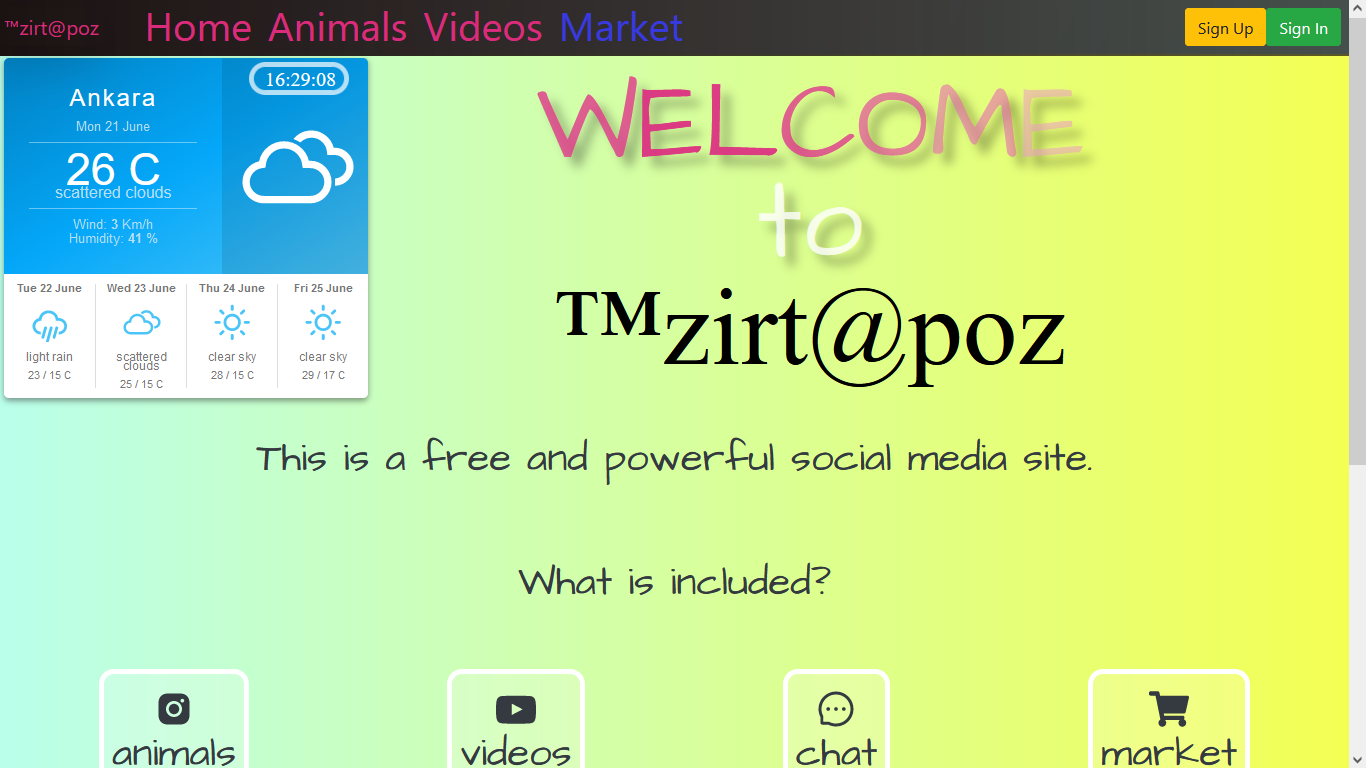
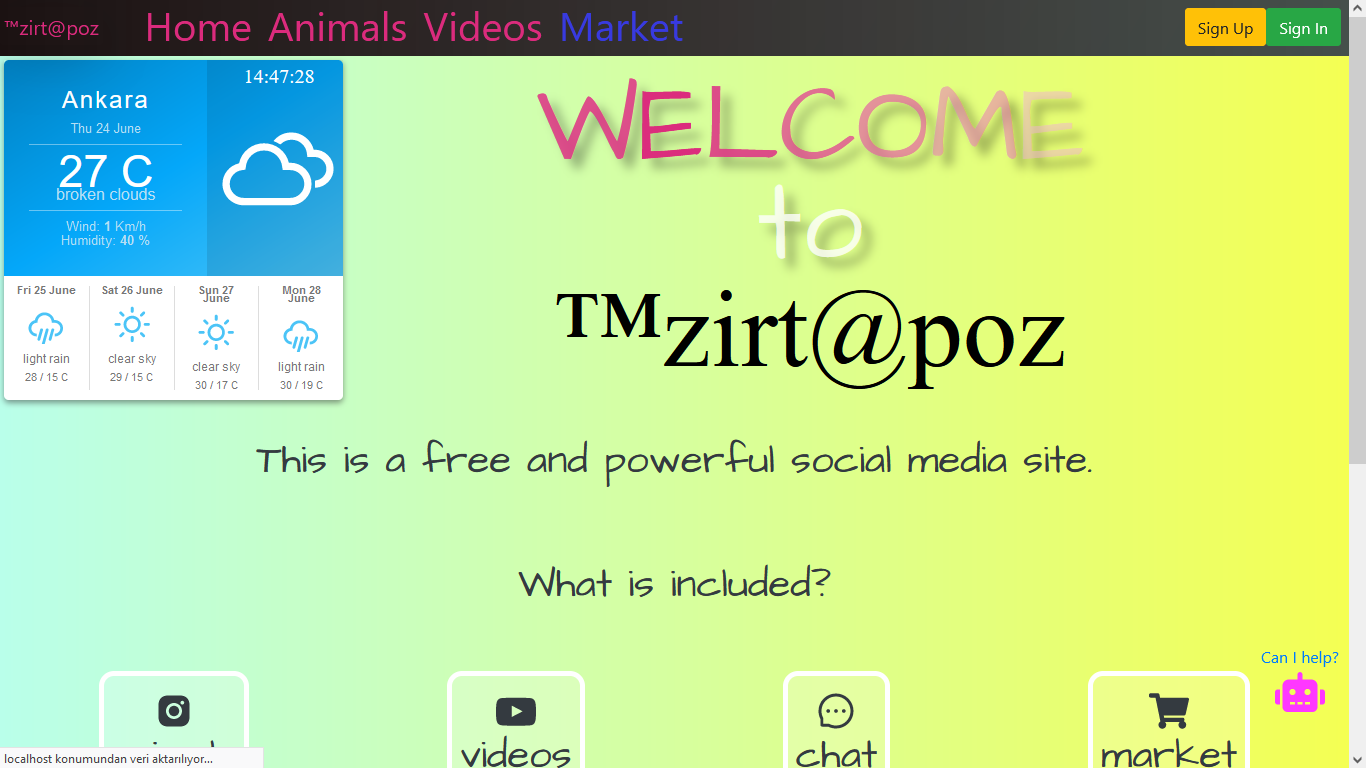
smart ai update

diff --git a/src/information.js b/src/information.js
@@ -8,10 +8,12 @@ import market1 from "./assets/market1.jpg";
 import market2 from "./assets/market2.jpg";
 import lottery1 from "./assets/lottery1.jpg";
 import lottery2 from "./assets/lottery2.jpg";
-import bag1 from "./assets//market/bag1.jpg";
-import addBag1 from "./assets//market/addBag1.jpg";
-import payment1 from "./assets//market/payment1.jpg";
-import oldPurchases1 from "./assets//market/oldPurchases1.jpg";
+import bot1 from "./assets//bot1.png";
+import bot2 from "./assets//bot2.jpg";
+import bag1 from "./assets/market/bag1.jpg";
+import addBag1 from "./assets/market/addBag1.jpg";
+import payment1 from "./assets/market/payment1.jpg";
+import oldPurchases1 from "./assets/market/oldPurchases1.jpg";
 import addProduct1 from "./assets/market/addProduct1.jpg";
 import addProduct2 from "./assets/market/addProduct2.jpg";
 import productPage1 from "./assets/market/productPage1.jpg";
@@ -42,6 +44,20 @@ export const tamzirtapozParagraph1 = `This is a social media web application tha
   People need to be a member to see the contents. This application makes connection to the Node.js server which is served by Heroku. There are 5 main page. Click details button for more information and to see photos`;
 
 export const tamzirtapozContent = [
+  {
+    title: "Smart AI Assistant",
+    paragraph1: "A smart bot tamzirtapoz will always help you about any topic",
+    photos: [bot1, bot2],
+    ulItems: [
+      "Easily send a message",
+      "Learn whatever you want",
+      "Talk like a person",
+      "For now, only English letters are supported",
+      "Get notifications from her",
+    ],
+    paragraph2:
+      "Even if you are not logged in, you can talk with her and get help from home page",
+  },
   {
     title: "Messaging",
     paragraph1:

diff --git a/src/components/Projects.js b/src/components/Projects.js
@@ -6,6 +6,8 @@ import messaging1 from "../assets/messaging1.jpg";
 import sidebar1 from "../assets/market/sidebar1.jpg";
 import addBag1 from "../assets/market/addBag1.jpg";
 import payment2 from "../assets/market/payment2.jpg";
+import bot1 from "../assets/bot1.png";
+
 import generalMain1 from "../assets/market/generalMain1.png";
 import { GoMarkGithub } from "react-icons/go";
 import { Modal, Button } from "react-bootstrap";
@@ -31,7 +33,7 @@ import { educational } from "../information";
 import useSound from "use-sound";
 import pageFlip from "../soundEffects/pageFlip.mp3";
 
-const tamzirtapozImages = [welcome, animals, videos, messaging1];
+const tamzirtapozImages = [welcome, bot1, animals, videos, messaging1];
 const marketTamzirtapozImages = [sidebar1, addBag1, payment2, generalMain1];
 
 const Projects = ({ pageWidth, pageYPosition, navbarSpace, urlServer }) => {

diff --git a/src/App.js b/src/App.js
@@ -15,7 +15,7 @@ function App() {
   const [pageYPosition, setPageYPosition] = useState(0);
   const [navbarSpace, setNavbarSpace] = useState(0);
   // Heroku servers need a hello to start the server. Free plans automatically stop server after 30min no activity.
-  const [saidHelloBackend, setSaidHelloBackend] = useState(false);
+  const [saidHelloBackend, setSaidHelloBackend] = useState(true);
 
   useEffect(() => {
     if (!saidHelloBackend) {
